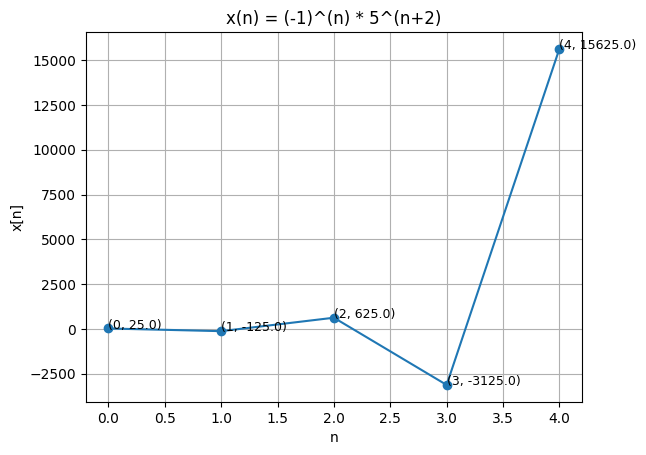
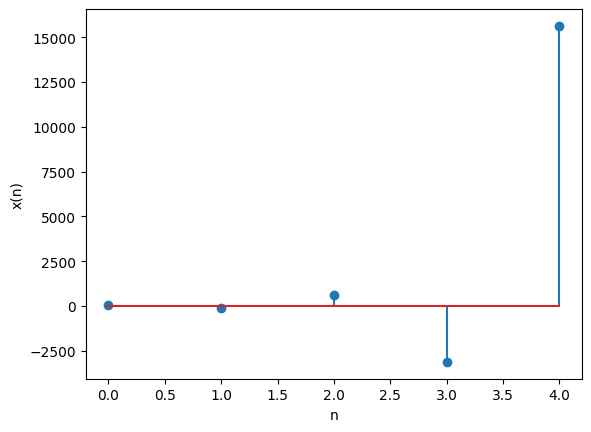
Add files via upload

diff --git a/Assignment2/code/graph.py b/Assignment2/code/graph.py
@@ -1,22 +1,21 @@
 import matplotlib.pyplot as plt
 
 # Read data from the file
-with open('values.dat', 'r') as file:
-    data = file.readlines()
+with open("values.dat", "r") as file:
+    data = [float(line.strip()) for line in file.readlines()]
 
-# Extract x and y values
-x_values = []
-y_values = []
-for line in data:
-    parts = line.split()
-    x_values.append(int(parts[0]))
-    y_values.append(float(parts[1]))
+# Extract x and y values for the stem plot
+x = list(range(len(data)))
+y = data
 
-# Plot the points
-plt.plot(x_values, y_values, marker='o', linestyle='-')
+# Create stem plot
+plt.stem(x, y, use_line_collection=True)
+
+# Add labels and title
 plt.xlabel('n')
-plt.ylabel('x[n]')
-plt.title('x(n) = (-1)^(n) * 5^(n+2)')
-plt.grid(True)
+plt.ylabel('x(n)')
+plt.title('')
+
+# Show plot
 plt.show()
 

diff --git a/Assignment2/Assignment_2.tex b/Assignment2/Assignment_2.tex
@@ -103,19 +103,19 @@ On substituting n = 0, 1, 2, 3 and 4, we get the first five terms
 Hence, the required terms are 25, –125, 625, –3125, 15625 .
 
 \begin{center}
-$x(n) \longleftrightarrow X(Z)$
+$x(n) \longleftrightarrow X(z)$
 \end{center}
 
 
  \begin{align}
-	   X(Z) &= \dfrac{25z}{z+5} \; ; \;( |z| > 5 )
+	   X(z) &= \dfrac{25z}{z+5} \; ; \;( |z| > 5 )
  \end{align}
 
 
 \begin{figure}
   \centering
   \includegraphics[width=0.5\textwidth]{figures/grasi2.png} 
- 
+ Figure 1
 \end{figure}
 
 

diff --git a/Assignment2/table/table2.tex b/Assignment2/table/table2.tex
@@ -10,7 +10,7 @@
     \hline
      $r$ & $-5$ & Common ratio of G.P.  \\
       \hline
-      $X(Z)$ & - & Z-Transform \\
+      $X(z)$ & - & Z-Transform \\
       \hline
     
   
